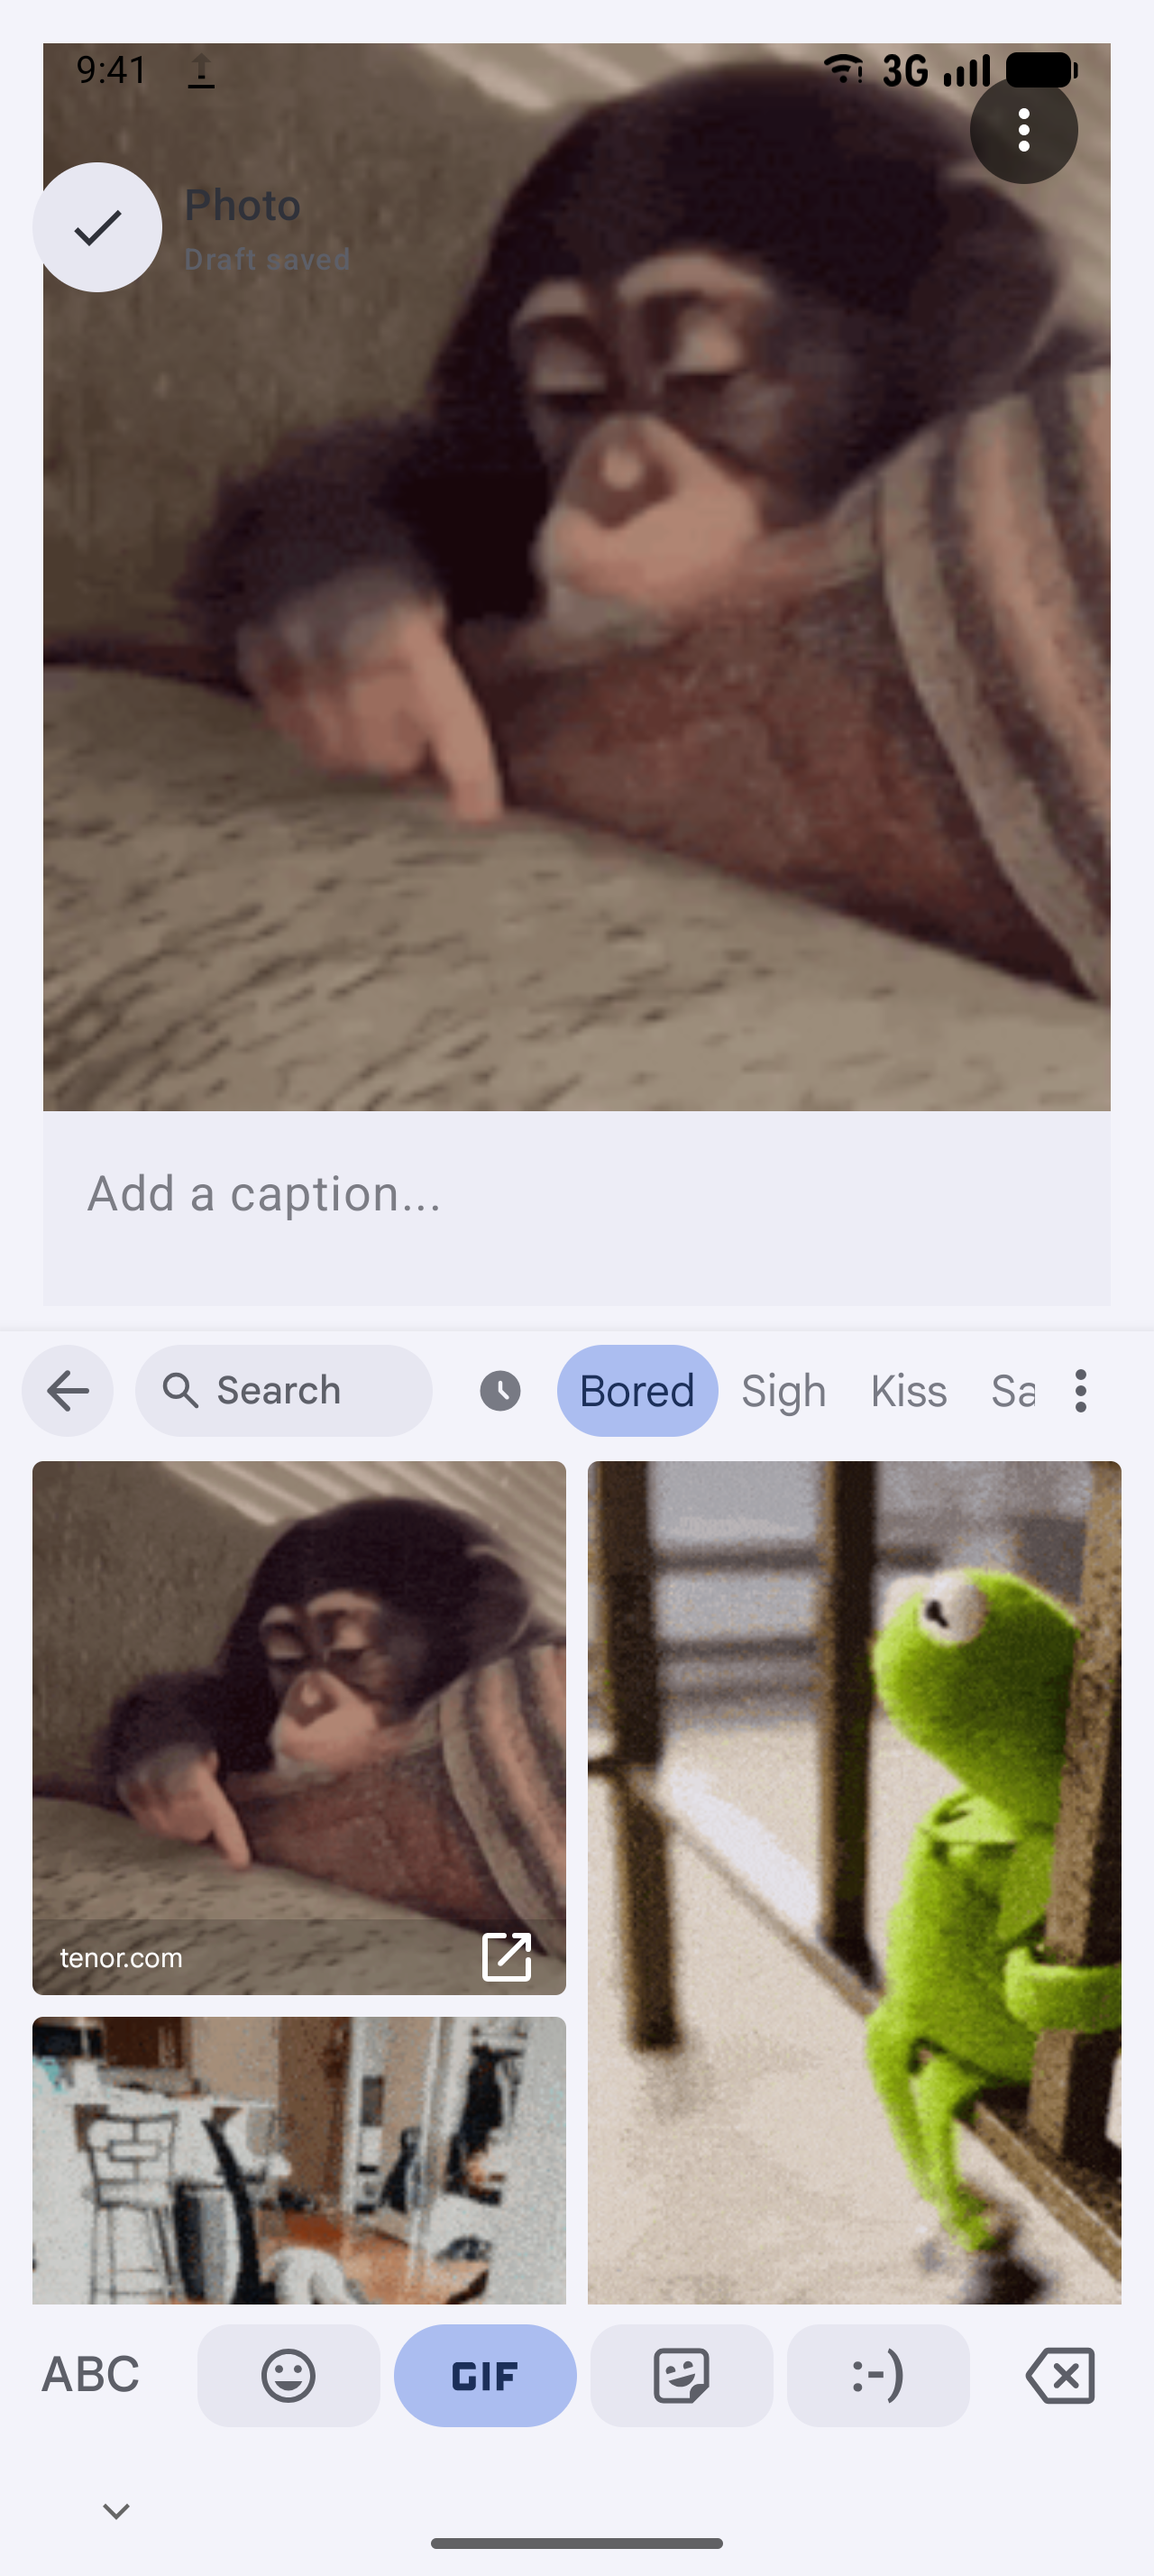
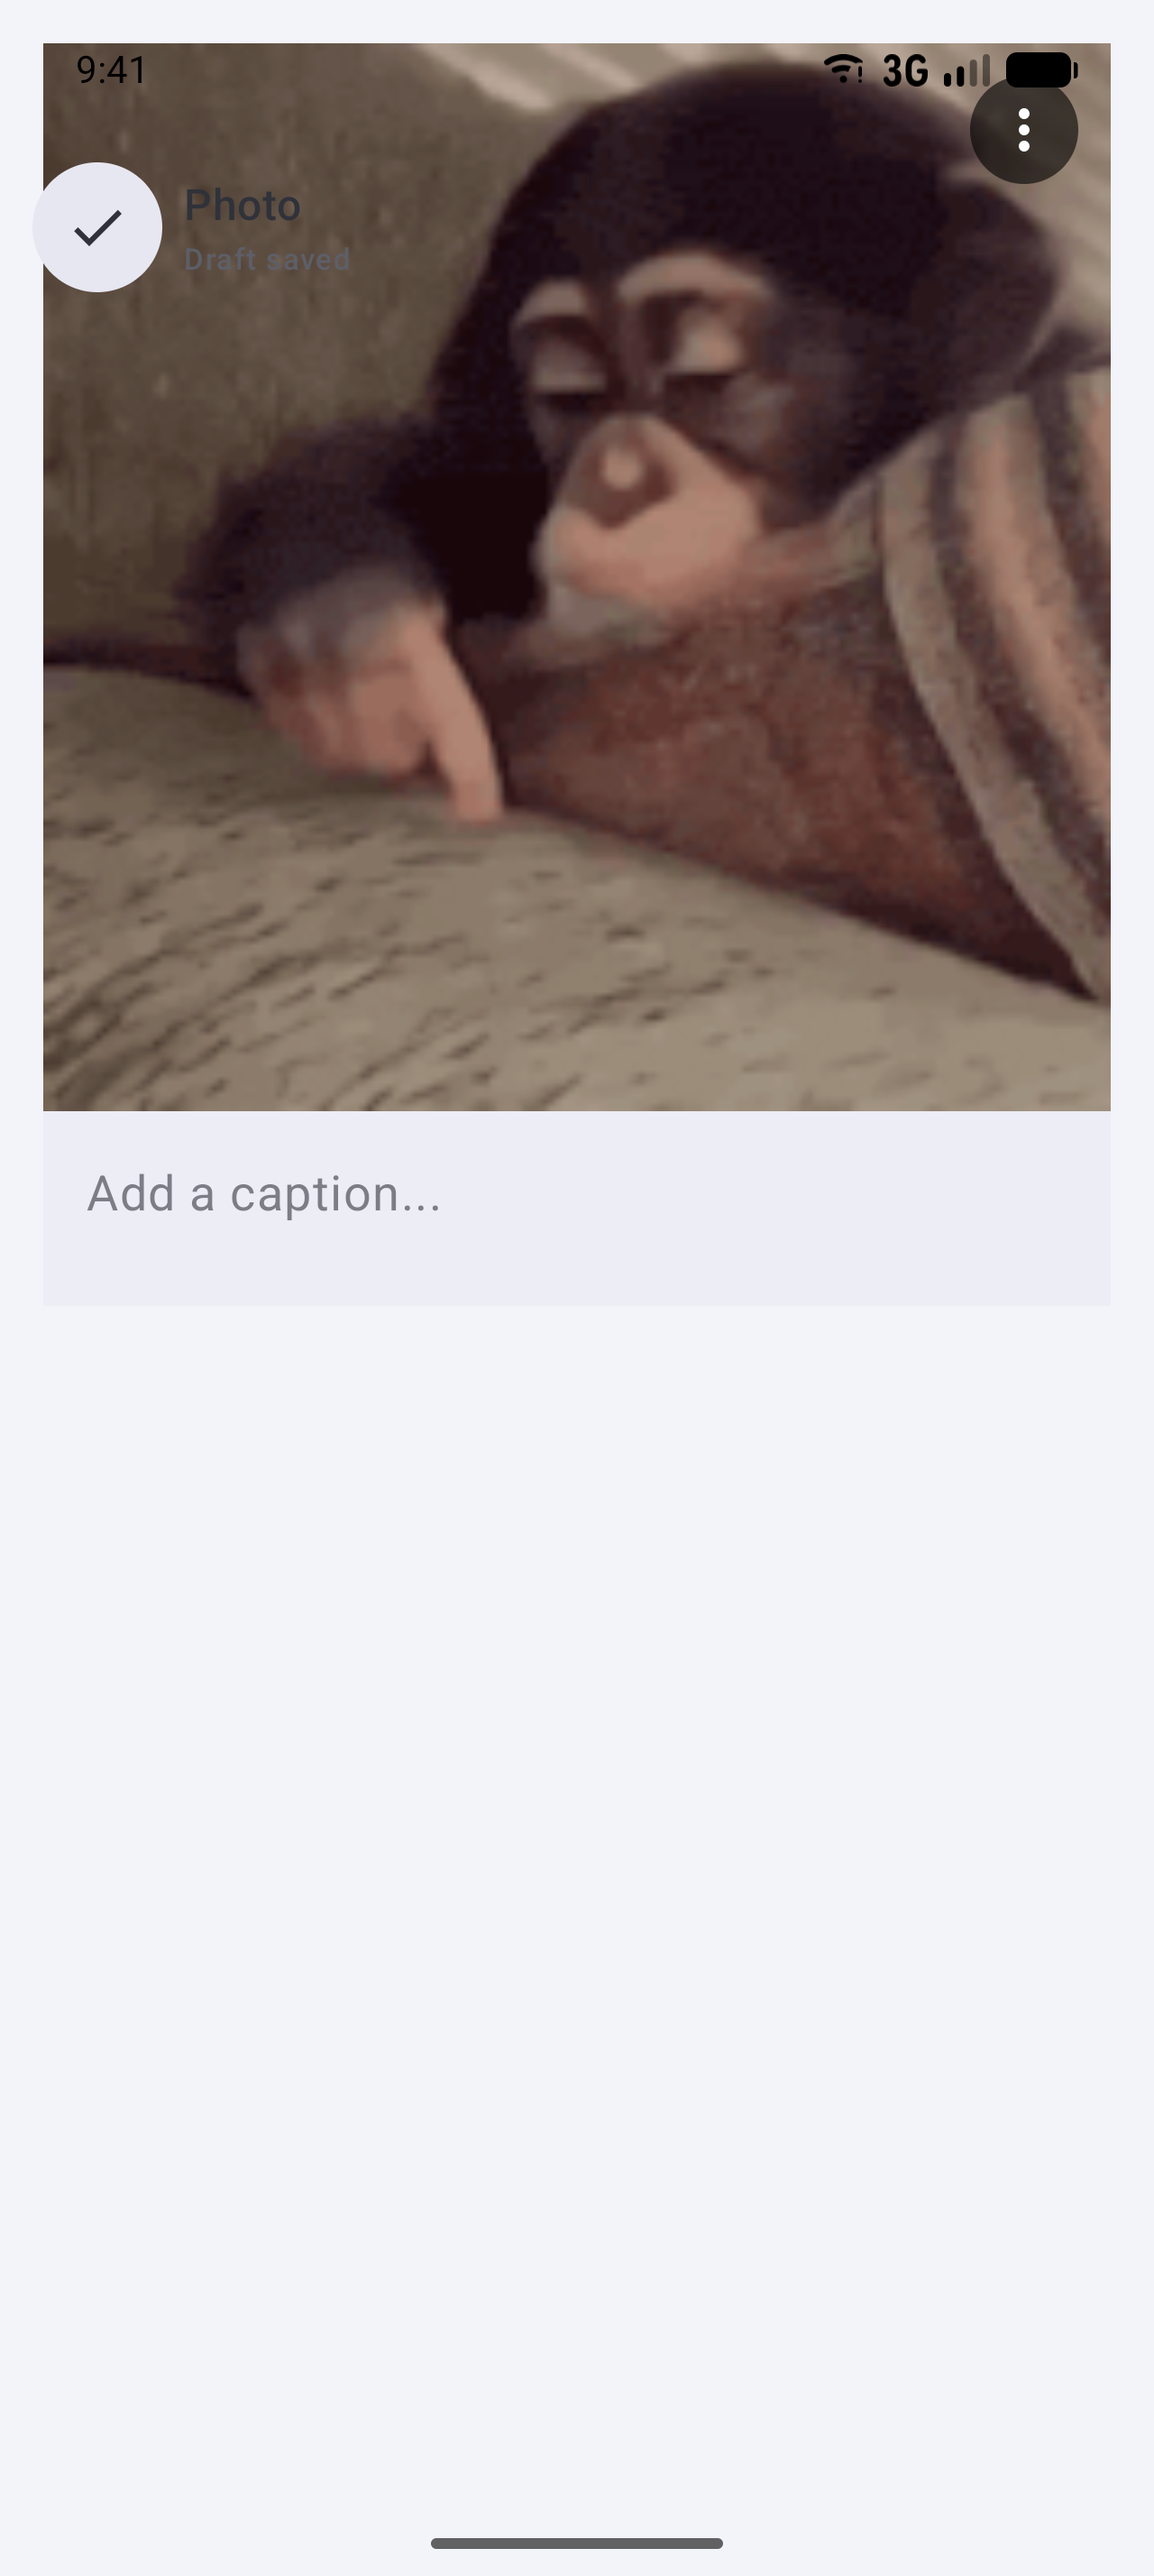
fix(editor): Close the keyboard when a photo sent from it opens
A photo or GIF sent from the keyboard opens in the entry, but the
keyboard stayed up with nothing left to type into. On a tablet lying on
its side it covered the photo's caption.

The keyboard now closes when a photo takes over from the piece being
typed into, so the photo and its caption are in view. Tapping the
caption brings the keyboard back.

diff --git a/client/feature/editor/src/commonMain/kotlin/app/logdate/feature/editor/ui/EntryEditorContent.kt b/client/feature/editor/src/commonMain/kotlin/app/logdate/feature/editor/ui/EntryEditorContent.kt
@@ -66,6 +66,7 @@ import app.logdate.feature.editor.ui.handwriting.rememberEntryPageState
 import app.logdate.feature.editor.ui.handwriting.rememberHandwritingBlockPresentations
 import app.logdate.feature.editor.ui.layout.EditorFocus
 import app.logdate.feature.editor.ui.layout.editorFocus
+import app.logdate.feature.editor.ui.layout.openPhotoId
 import app.logdate.feature.editor.ui.state.rememberBlocksUiState
 import app.logdate.feature.editor.ui.text.LocalEditorTextInputSession
 import app.logdate.feature.editor.ui.text.editorTextInputSession
@@ -130,6 +131,18 @@ fun EntryEditorContent(
             focusManager.clearFocus()
             keyboard?.hide()
         }
+    }
+    // A photo that takes over from a piece being typed into leaves that piece's keyboard up with
+    // nothing to type into. A photo that was already open when this was composed is left alone, so
+    // a caption being typed keeps its keyboard when the window is recreated.
+    val openPhoto = openPhotoId(editorState.blocks, editorState.expandedBlockId)
+    var settledPhoto by remember { mutableStateOf(openPhoto) }
+    LaunchedEffect(openPhoto) {
+        if (openPhoto != null && openPhoto != settledPhoto) {
+            focusManager.clearFocus()
+            keyboard?.hide()
+        }
+        settledPhoto = openPhoto
     }
     val uiState =
         rememberBlocksUiState(

diff --git a/client/feature/editor/src/commonTest/kotlin/app/logdate/feature/editor/ui/layout/EditorFocusPresentationTest.kt b/client/feature/editor/src/commonTest/kotlin/app/logdate/feature/editor/ui/layout/EditorFocusPresentationTest.kt
@@ -5,13 +5,27 @@ import app.logdate.feature.editor.ui.editor.AudioBlockUiState
 import app.logdate.feature.editor.ui.editor.AudioCaptureState
 import app.logdate.feature.editor.ui.editor.CameraBlockUiState
 import app.logdate.feature.editor.ui.editor.EditorState
+import app.logdate.feature.editor.ui.editor.ImageBlockUiState
 import app.logdate.feature.editor.ui.editor.TextBlockUiState
 import kotlin.test.Test
 import kotlin.test.assertEquals
 import kotlin.test.assertFalse
+import kotlin.test.assertNull
 import kotlin.test.assertTrue
 
 class EditorFocusPresentationTest {
+    @Test
+    fun `a photo that is the open piece is the one the keyboard gives way to`() {
+        val text = TextBlockUiState()
+        val photo = ImageBlockUiState(uri = "file:///photo.jpg")
+        val choosing = ImageBlockUiState()
+
+        assertEquals(photo.id, openPhotoId(listOf(text, photo), photo.id))
+        assertNull(openPhotoId(listOf(text, photo), text.id), "writing keeps its keyboard")
+        assertNull(openPhotoId(listOf(text, choosing), choosing.id), "choosing a photo is not a photo yet")
+        assertNull(openPhotoId(listOf(text, photo), null), "nothing is open")
+    }
+
     @Test
     fun `recording owner takes precedence over another selected block`() {
         val text = TextBlockUiState()

diff --git a/client/feature/editor/src/commonMain/kotlin/app/logdate/feature/editor/ui/layout/EditorFocusPresentation.kt b/client/feature/editor/src/commonMain/kotlin/app/logdate/feature/editor/ui/layout/EditorFocusPresentation.kt
@@ -10,6 +10,7 @@ import app.logdate.feature.editor.ui.editor.CameraBlockUiState
 import app.logdate.feature.editor.ui.editor.EditorState
 import app.logdate.feature.editor.ui.editor.EntryBlockUiState
 import app.logdate.feature.editor.ui.editor.HandwritingBlockUiState
+import app.logdate.feature.editor.ui.editor.ImageBlockUiState
 import kotlin.uuid.Uuid
 
 sealed interface EditorFocus {
@@ -47,6 +48,18 @@ internal fun editorFocus(
     if (selected is HandwritingBlockUiState) return EditorFocus.Drawing(selected.id)
     return if (selected is CameraBlockUiState && selected.uri == null) EditorFocus.Camera(selected.id) else EditorFocus.Editing(selected.id)
 }
+
+/**
+ * The photo that is the open piece, if one is.
+ *
+ * A photo that becomes the open piece takes over from whatever was being typed into: one sent from
+ * the keyboard, or pasted. The keyboard that piece left up then belongs to nothing, and on a short
+ * window it covers the photo's caption.
+ */
+internal fun openPhotoId(
+    blocks: List<EntryBlockUiState>,
+    selectedId: Uuid?,
+): Uuid? = (blocks.firstOrNull { it.id == selectedId } as? ImageBlockUiState)?.takeIf { it.uri != null }?.id
 
 @Immutable
 internal data class EditorFocusPresentation(

diff --git a/docs/reference/android/os-integration/keyboard-pointer-drag-and-drop.md b/docs/reference/android/os-integration/keyboard-pointer-drag-and-drop.md
@@ -91,7 +91,8 @@ A photo copied in another app and pasted from the text menu on a phone:
 | ![A new entry with the text menu open over its empty text field, showing Paste](../../../screenshots/android-os-integration/keyboard-pointer-drag-and-drop/paste-menu--phone-api37.png) | ![The entry with the pasted photo of a dog wrapped in a blanket](../../../screenshots/android-os-integration/keyboard-pointer-drag-and-drop/paste-menu-photo--phone-api37.png) |
 
 Gboard suggests a copied image only to a field that accepts images. Tapping its suggestion sends
-the photo the same way it sends a GIF or sticker:
+the photo the same way it sends a GIF or sticker. The photo opens in the entry and the keyboard
+closes, so the photo and its caption are in view; tapping the caption brings the keyboard back:
 
 | The keyboard's suggestion                                                                                                                                                                                | Once sent                                                                                                                                                          |
 | -------------------------------------------------------------------------------------------------------------------------------------------------------------------------------------------------------- | ------------------------------------------------------------------------------------------------------------------------------------------------------------------ |
